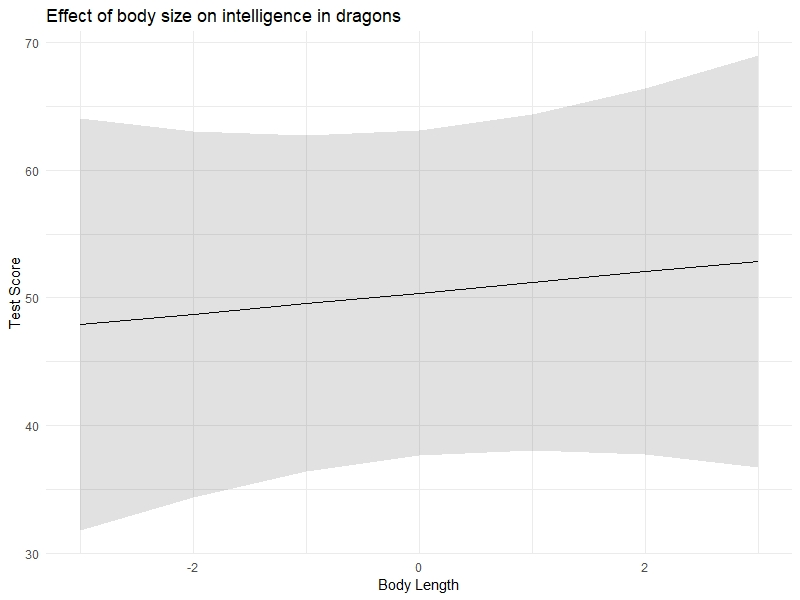
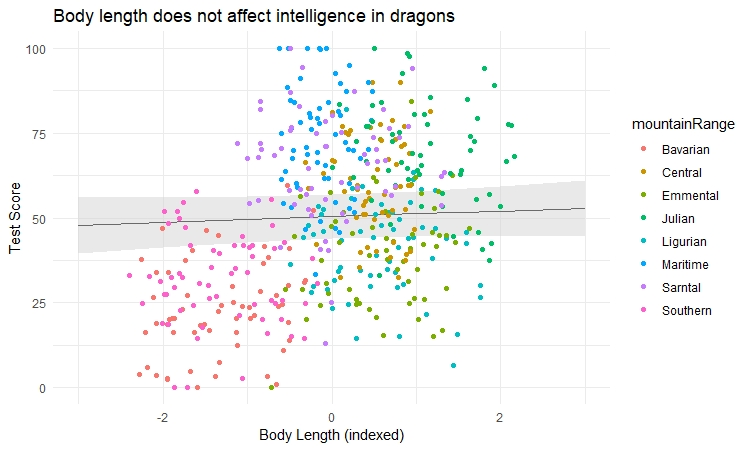
Sandra added random slopes and plotting to mixed model tutorial

diff --git a/_posts/2017-03-15-mixed-models.md b/_posts/2017-03-15-mixed-models.md
@@ -43,6 +43,7 @@ Alternatively, you can grab the **R script** [here](http://gkhajduk.d.pr/FG8/2bC
 ##### <a href="#nested"> Nested random effects</a>
 ##### <a href="#implicit"> Implicit vs. explicit nesting</a>
 #### <a href="#second"> -- Our second mixed model</a>
+#### <a href="#ranslopes"> -- Introducing random slopes </a> 
 #### <a href="#presenting"> -- Presenting your model results</a>
 ##### <a href="#plots"> Plotting model predictions</a>
 ##### <a href="#tables"> Tables</a>
@@ -503,17 +504,58 @@ Let's plot this again - visualising what's going on is always helpful. You shoul
 <section id= "code21" markdown="1">
 ```r
 (mm_plot <- ggplot(dragons, aes(x = bodyLength, y = testScore, colour = site)) +
-  facet_wrap(~mountainRange, nrow=3) +
-  geom_point() +
-  theme_classic() +
-  geom_line(data = cbind(dragons, pred = predict(mixed.lmer2)), aes(y = pred)) +
-  theme(legend.position = "none"))
+      facet_wrap(~mountainRange, nrow=2) +   # a panel for each mountain range
+      geom_point(alpha = 0.5) +
+      theme_classic() +
+      geom_line(data = cbind(dragons, pred = predict(mixed.lmer2)), aes(y = pred), size = 1) +  # adding predicted line from mixed model 
+      theme(legend.position = "none",
+            panel.spacing = unit(2, "lines"))  # adding space between panels
+)
 ```
 </section>
 
 <center><img src="{{ site.baseurl }}/img/mm-10.png" alt="Img" style="width: 800px;"/></center>
 
-**Well done for getting here!** You have now fitted mixed models and you know how to account for crossed random effects too. You saw that failing to account for the correlation in data might lead to misleading results - it seemed that body length affected the test score until we accounted for the variation coming from mountain ranges. We can see now that body length doesn't influence the test scores - great! We can pick smaller dragons for any future training - smaller ones should be more manageable! ;] 
+<a name="ranslopes"></a>
+### Introducing random slopes
+
+You might have noticed that all the lines on the above figure are parallel: that's because so far, we have only fitted **random-intercept models**. A random-intercept model allows the intercept to vary for each level of the random effects, but keeps the slope constant among them. So in our case, using this model means that we expect dragons in all mountain ranges to exhibit the same relationship between body length and intelligence (fixed slope), although we acknowledge that some populations may be smarter or dumber to begin with (random intercept). 
+
+Now, in the life sciences, we perhaps more often assume that not all populations would show the exact same relationship, for instance if your study sites/populations are very far apart and have some relatively important environmental, genetic, etc differences. Therefore, we often want to fit a **random-slope and random-intercept model**. Maybe the dragons in a very cold vs a very warm mountain range have evolved different body forms for heat conservation and may therefore be smart even if they're smaller than average. 
+
+We only need to make one change to our model to allow for random slopes as well as intercept, and that's adding the fixed variable into the random effect brackets:
+
+<a id="Acode22" class="copy" name="copy_pre" href="#"> <i class="fa fa-clipboard"></i> Copy Contents </a><br>
+<section id= "code22" markdown="1">
+```r
+mixed.ranslope <- lmer(testScore ~ bodyLength2 + (1 + bodyLength2|mountainRange/site), data = dragons) 
+
+summary(mixed.slope)
+```
+</section>
+
+Here, we're saying, let's model the intelligence of dragons as a function of body length, knowing that populations have different intelligence baselines **and** that the relationship may vary among populations. 
+
+Let's see that with a quick plot (we'll plot predictions in more detail in the next section). Notice how the slopes for the different sites and mountain ranges are not parallel anymore?
+
+<a id="Acode23" class="copy" name="copy_pre" href="#"> <i class="fa fa-clipboard"></i> Copy Contents </a><br>
+<section id= "code23" markdown="1">
+```r
+### plot
+(mm_plot <- ggplot(dragons, aes(x = bodyLength, y = testScore, colour = site)) +
+      facet_wrap(~mountainRange, nrow=2) +   # a panel for each mountain range
+      geom_point(alpha = 0.5) +
+      theme_classic() +
+      geom_line(data = cbind(dragons, pred = predict(mixed.ranslope)), aes(y = pred), size = 1) +  # adding predicted line from mixed model 
+      theme(legend.position = "none",
+            panel.spacing = unit(2, "lines"))  # adding space between panels
+)
+```
+</section>
+
+<center><img src="{{ site.baseurl }}/img/mm-ranslopes.png" alt="Img" style="width: 800px;"/></center>
+
+**Well done for getting here!** You have now fitted random-intercept and random-slopes, random-intercept mixed models and you know how to account for hierarchical and crossed random effects. You saw that failing to account for the correlation in data might lead to misleading results - it seemed that body length affected the test score until we accounted for the variation coming from mountain ranges. We can see now that body length doesn't influence the test scores - great! We can pick smaller dragons for any future training - smaller ones should be more manageable! ;] 
 
 If you are particularly keen, the next section gives you a few options when it comes to **presenting your model results** and in the last "extra" section you  can learn about the **model selection conundrum**. There is just a little bit more code there to get through if you fancy those.
 
@@ -527,25 +569,37 @@ Once you get your model, you have to **present** it in a nicer form.
 
 Often you will want to visualise your model as a regression line with some error around it, just like you would a simple linear model. However, `ggplot2` stats options are not designed to estimate mixed-effect model objects correctly, so we will use the `ggeffects` package to help us draw the plots.
 
-<a id="Acode22" class="copy" name="copy_pre" href="#"> <i class="fa fa-clipboard"></i> Copy Contents </a><br>
-<section id= "code22" markdown="1">
+<a id="Acode24" class="copy" name="copy_pre" href="#"> <i class="fa fa-clipboard"></i> Copy Contents </a><br>
+<section id= "code24" markdown="1">
 ```
-library(ggeffects)  # install it first if you haven't already
+library(ggeffects)  # install the package first if you haven't already, then load it
 
-# Plot mixed model predictions
-ggpredict(mixed.lmer2, terms = c("bodyLength2")) %>% # extracting the model predictions for the fixed effect
-   plot() +  # creating the plot
-   labs(x = "Body Length", y = "Test Score", title = "Effect of body size on intelligence in dragons") +  #customising plot
+# Extract the prediction data frame
+pred.mm <- ggpredict(mixed.lmer2, terms = c("bodyLength2"))  # this gives overall predictions for the model
+
+# Plot the predictions 
+
+(ggplot(pred.mm) + 
+   geom_line(aes(x = x, y = predicted)) +          # slope
+   geom_ribbon(aes(x = x, ymin = predicted - std.error, ymax = predicted + std.error), 
+               fill = "lightgrey", alpha = 0.5) +  # error band
+   geom_point(data = dragons,                      # adding the raw data (scaled values)
+              aes(x = bodyLength2, y = testScore, colour = mountainRange)) + 
+   labs(x = "Body Length (indexed)", y = "Test Score", 
+        title = "Body length does not affect intelligence in dragons") + 
    theme_minimal()
+)
 ```
 </section>
 
 <center><img src="{{ site.baseurl }}/img/mixed-models-ggpredict1.jpeg" alt="Img" style="width: 750px;"/></center>
 
-What if you want to visualise how the relationships vary according to different levels of random effects? You can specify `type = "re"` (for "random effects") in the `ggpredict()` function, and add the random effect to the terms argument:
+What if you want to visualise how the relationships vary according to different levels of random effects? You can specify `type = "re"` (for "random effects") in the `ggpredict()` function, and add the random effect name to the `terms` argument. 
 
-<a id="Acode23" class="copy" name="copy_pre" href="#"> <i class="fa fa-clipboard"></i> Copy Contents </a><br>
-<section id= "code23" markdown="1">
+We also demonstrate a way to plot the graph quicker with the `plot()` function of `ggEffects`:
+
+<a id="Acode25" class="copy" name="copy_pre" href="#"> <i class="fa fa-clipboard"></i> Copy Contents </a><br>
+<section id= "code25" markdown="1">
 ```
 ggpredict(mixed.lmer2, terms = c("bodyLength2", "mountainRange"), type = "re") %>% 
    plot() +
@@ -556,13 +610,27 @@ ggpredict(mixed.lmer2, terms = c("bodyLength2", "mountainRange"), type = "re") %
 
 <center><img src="{{ site.baseurl }}/img/mixed-models-ggpredict2.jpeg" alt="Img" style="width: 750px;"/></center>
 
-The lines for the different models are all parallel because we fitted a **random intercept** only model. In ecological and biological systems, it often makes sense to have **random slopes** as well, although these models are more complex and often will not converge.
+You can clearly see the random intercepts and fixed slopes from this graph. When assessing the quality of your model, it's always a good idea to look at the raw data, the summary output, and the predictions all together to make sure you understand what is going on (and that you have specified the model correctly). 
 
-<div class="bs-callout-yellow" markdown="1">
-#### Work in progress!
+Another way to visualise mixed model results, if you are interested in showing the variation among levels of your random effects, is to plot the *departure from the overall model estimate* for intercepts - and slopes, if you have a random slope model:
 
-We will shortly be adding a random slope example here, but for now to see how they are coded, check out <a href="https://ourcodingclub.github.io/2018/04/06/model-design.html#lme4b" target="_blank">the lme4 section of our model design tutorial </a>. 
-</div>
+<a id="Acode26" class="copy" name="copy_pre" href="#"> <i class="fa fa-clipboard"></i> Copy Contents </a><br>
+<section id= "code26" markdown="1">
+```r
+library(sjPlot)
+
+# Visualise random effects 
+(re.effects <- plot_model(mixed.ranslope, type = "re", show.values = TRUE))
+
+# show summary
+summary(mixed.ranslope)
+
+```
+</section>
+
+<center><img src="{{ site.baseurl }}/img/mixed-models-sjplot.png" alt="Img" style="width: 750px;"/></center>
+
+**Careful here!** The values you see are **NOT** *actual* values, but rather the *difference* between the general intercept or slope value found in your model summary and the estimate for this *specific level* of random effect. For instance, the relationship for dragons in the Maritime mountain range would have a slope of `(-2.91 + 0.67) = -2.24` and an intercept of `(20.77 + 51.43) = 72.20`. 
 
 If you are looking for more ways to create plots of your results, check out `dotwhisker` and this <a href="https://cran.r-project.org/web/packages/dotwhisker/vignettes/dotwhisker-vignette.html" target="_blank">tutorial</a>.
 
@@ -571,8 +639,8 @@ If you are looking for more ways to create plots of your results, check out `dot
 
 For `lme4`, if you are looking for a table, I'd recommend that you have a look at the `stargazer` package.
 
-<a id="Acode24" class="copy" name="copy_pre" href="#"> <i class="fa fa-clipboard"></i> Copy Contents </a><br>
-<section id= "code24" markdown="1">
+<a id="Acode27" class="copy" name="copy_pre" href="#"> <i class="fa fa-clipboard"></i> Copy Contents </a><br>
+<section id= "code27" markdown="1">
 ```r
 library(stargazer)
 ```
@@ -584,8 +652,8 @@ Here is a quick example - simply plug in your model name, in this case `mixed.lm
 
 If you are keen, explore this table a little further - what would you change? What would you get rid off? 
 
-<a id="Acode25" class="copy" name="copy_pre" href="#"> <i class="fa fa-clipboard"></i> Copy Contents </a><br>
-<section id= "code25" markdown="1">
+<a id="Acode28" class="copy" name="copy_pre" href="#"> <i class="fa fa-clipboard"></i> Copy Contents </a><br>
+<section id= "code28" markdown="1">
 ```r
 stargazer(mixed.lmer2, type = "text",
           digits = 3,
@@ -631,8 +699,8 @@ I think that `MCMC` and bootstrapping are a bit out of our reach for this worksh
 
 Fit the models, a full model and a reduced model in which we dropped our fixed effect (`bodyLength2`):
 
-<a id="Acode26" class="copy" name="copy_pre" href="#"> <i class="fa fa-clipboard"></i> Copy Contents </a><br>
-<section id= "code26" markdown="1">
+<a id="Acode29" class="copy" name="copy_pre" href="#"> <i class="fa fa-clipboard"></i> Copy Contents </a><br>
+<section id= "code29" markdown="1">
 ```r
 full.lmer <- lmer(testScore ~ bodyLength2 + (1|mountainRange) + (1|sample), 
 				  data = dragons, REML = FALSE)
@@ -643,8 +711,8 @@ reduced.lmer <- lmer(testScore ~ 1 + (1|mountainRange) + (1|sample),
 
 Compare them:
 
-<a id="Acode27" class="copy" name="copy_pre" href="#"> <i class="fa fa-clipboard"></i> Copy Contents </a><br>
-<section id= "code27" markdown="1">
+<a id="Acode30" class="copy" name="copy_pre" href="#"> <i class="fa fa-clipboard"></i> Copy Contents </a><br>
+<section id= "code30" markdown="1">
 ```r
 anova(reduced.lmer, full.lmer)  # the two models are not significantly different
 ```
